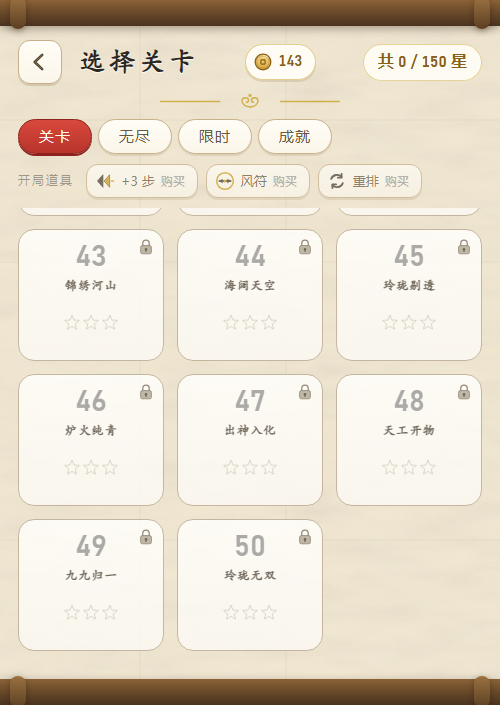
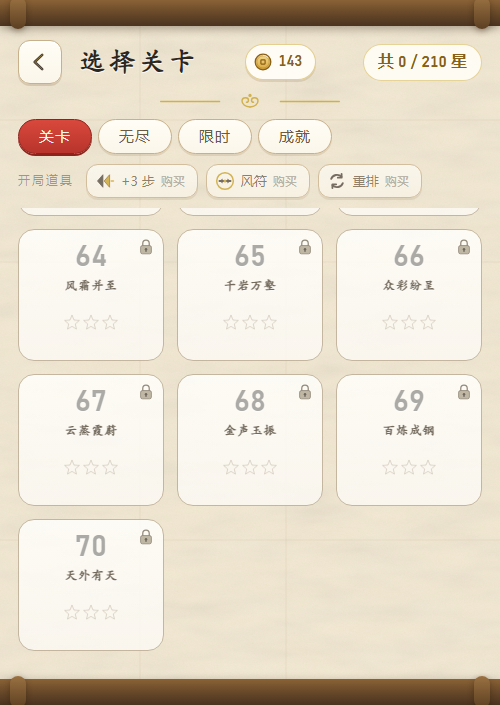
feat(levels): 50 关扩到 70 关（第七章「缠斗」+ 第八章「无双」）
按上一批的节奏继续加两章 20 关，新增 4 张盘面：藤柱 / 霜簇 / 双垒 / 石十字 / 藤石相间。
数值照旧走「模拟 → 回填工具建议的星级 → 复验」，最终 51-70 关胜率落在 44%~84%，
全部 70 关通过健康检查（只有原有的教学关 1-4、14 是 100%）。

顺带把「加关卡就要重排成就」这个维护痛点根治了：
- 星级成就的门槛改成按**满星上限的比例**算（四分位 / 半数 / 四分之三 / 满星），
  画卷五层同理（10% / 28% / 52% / 78% / 100%）。门槛跟着关卡数自动缩放。
- 成就 id 从 stars20/stars50/stars90/stars120 改成 starsQuarter/starsHalf/starsMost/starsAll
  ——不含数字，以后再加关卡不用再重命名 id、图标文件、i18n 键（这次一次性改完）。
- 描述里的数字由 Achievements.needOf 注入（{n}），文案只有一份。
- 新增 12e/12f 两条自检守着这套约定：满星上限 = 关卡数×3、画卷门槛递增且末层=满星、
  星级成就门槛递增且末档=满星、「通关全部」门槛=关卡数，
  以及「描述里带 {n} 的成就必须给得出数字」（否则界面会显示成 0）。

另一个反复出现的经验这次也验证了：**成簇摆放的障碍好打得多**。
石十字（12 个石锁连成一片）第一次给 32 步时胜率 92%，收到 22 步才回到 83%；
而同样数量的石锁摊在四角会直接掉到 29%。摆布局时按「打击次数 × 是否成簇」估难度。

自检 192 项 · 浏览器 24 项 × 三种尺寸全绿 · 技能回归平均 70.2% → 75.5%。

diff --git a/js/levels.js b/js/levels.js
@@ -169,6 +169,62 @@
       '....#...',
       '....##..'
     ],
+    /* ---- 第七、八章新增 ---- */
+    /* 霜簇：四片霜排成两个 2×2，成簇摆法对高阶关同样适用 */
+    frostCluster: [
+      '........',
+      '..**....',
+      '..**....',
+      '........',
+      '........',
+      '....**..',
+      '....**..',
+      '........'
+    ],
+    /* 藤柱：三对竖藤把盘面切成四段，重力分段最碎的一张图 */
+    vineColumns: [
+      '..v..v..',
+      '..v..v..',
+      '..v..v..',
+      '........',
+      '........',
+      '..v..v..',
+      '..v..v..',
+      '..v..v..'
+    ],
+    /* 双垒：两座 2×2 石垒上下错开，比四角摊开好打得多 */
+    twinBlocks: [
+      '........',
+      '..##....',
+      '..##....',
+      '........',
+      '........',
+      '....##..',
+      '....##..',
+      '........'
+    ],
+    /* 石十字：12 个石锁连成一片十字，一次三连能同时啃掉好几块——量大但好打 */
+    crossStone: [
+      '........',
+      '........',
+      '...##...',
+      '..####..',
+      '..####..',
+      '...##...',
+      '........',
+      '........'
+    ],
+    /* 藤石相间：两座石垒配两条竖藤 */
+    stoneVineMix: [
+      '..v.....',
+      '..##....',
+      '..##....',
+      '..v.....',
+      '....v...',
+      '....##..',
+      '....##..',
+      '....v...'
+    ],
     /* 铁壁：两座 2×2 石垒斜对角摆开（收官关用）。
      * 摆布局时按「打击次数」估难度（石锁 2 次、霜 1 次），而且**成簇比摊开好打**——
      * 一次三连能同时啃掉挤在一起的好几个。第一版把 4 个石锁摊在四个角，
@@ -257,7 +313,31 @@
     { id: 47, name: '出神入化', nameEn: 'Transcendent',  colors: 6, moves: 28, objectives: [{ type: 'score', target: 5000 }, { type: 'collect', color: 5, count: 20 }, { type: 'clear' }], stars: [5320, 5600, 6400], layout: LAYOUTS.frostVine },
     { id: 48, name: '天工开物', nameEn: 'Craft of Heaven', colors: 6, moves: 25, objectives: [{ type: 'collect', color: 0, count: 20 }, { type: 'collect', color: 3, count: 20 }, { type: 'collect', color: 5, count: 20 }], stars: [3930, 4400, 4900], layout: LAYOUTS.mixedA },
     { id: 49, name: '九九归一', nameEn: 'All Returns One', colors: 6, moves: 28, objectives: [{ type: 'score', target: 5200 }, { type: 'clear' }], stars: [5490, 5900, 6500], layout: LAYOUTS.finale },
-    { id: 50, name: '玲珑无双', nameEn: 'Unrivalled',    colors: 6, moves: 32, objectives: [{ type: 'score', target: 4200 }, { type: 'collect', color: 2, count: 22 }, { type: 'clear' }], stars: [4755, 5300, 6700], layout: LAYOUTS.bastion }
+    { id: 50, name: '玲珑无双', nameEn: 'Unrivalled',    colors: 6, moves: 32, objectives: [{ type: 'score', target: 4200 }, { type: 'collect', color: 2, count: 22 }, { type: 'clear' }], stars: [4755, 5300, 6700], layout: LAYOUTS.bastion },
+
+    /* ---- 第七章 · 缠斗（障碍加量，成簇摆法；两个目标同时施压） ---- */
+    { id: 51, name: '双峰对峙', nameEn: 'Twin Peaks',    colors: 6, moves: 25, objectives: [{ type: 'score', target: 5000 }, { type: 'clear' }], stars: [5240, 5500, 6100], layout: LAYOUTS.frostCluster },
+    { id: 52, name: '藤罗深锁', nameEn: 'Vine Lock',     colors: 6, moves: 27, objectives: [{ type: 'clear' }], stars: [4095, 5100, 6000], layout: LAYOUTS.vineColumns },
+    { id: 53, name: '石径通幽', nameEn: 'Stone Path',    colors: 6, moves: 28, objectives: [{ type: 'collect', color: 0, count: 24 }, { type: 'clear' }], stars: [4085, 5100, 6000], layout: LAYOUTS.stoneVineMix },
+    { id: 54, name: '霜石交辉', nameEn: 'Frost and Stone', colors: 6, moves: 28, objectives: [{ type: 'score', target: 4800 }, { type: 'clear' }], stars: [5150, 5400, 5800], layout: LAYOUTS.twinBlocks },
+    { id: 55, name: '三英聚首', nameEn: 'Threefold',     colors: 6, moves: 24, objectives: [{ type: 'collect', color: 1, count: 22 }, { type: 'collect', color: 3, count: 22 }, { type: 'collect', color: 5, count: 22 }], stars: [4005, 4800, 5700], layout: LAYOUTS.frostCross },
+    { id: 56, name: '曲径回廊', nameEn: 'Winding Corridor', colors: 6, moves: 29, objectives: [{ type: 'score', target: 4800 }, { type: 'clear' }], stars: [5330, 5900, 7000], layout: LAYOUTS.vineColumns },
+    { id: 57, name: '双辉并耀', nameEn: 'Twin Radiance', colors: 6, moves: 26, objectives: [{ type: 'collect', color: 2, count: 26 }, { type: 'collect', color: 4, count: 26 }], stars: [4165, 5000, 5900], layout: LAYOUTS.frostCluster },
+    { id: 58, name: '石上流泉', nameEn: 'Spring on Stone', colors: 6, moves: 29, objectives: [{ type: 'score', target: 5000 }, { type: 'collect', color: 4, count: 22 }, { type: 'clear' }], stars: [5445, 5800, 6200], layout: LAYOUTS.stoneVineMix },
+    { id: 59, name: '层见叠出', nameEn: 'Layer on Layer', colors: 6, moves: 22, objectives: [{ type: 'clear' }], stars: [2840, 3600, 4500], layout: LAYOUTS.crossStone },
+    { id: 60, name: '万象森罗', nameEn: 'Myriad Forms',  colors: 6, moves: 28, objectives: [{ type: 'score', target: 5000 }, { type: 'collect', color: 3, count: 20 }, { type: 'collect', color: 0, count: 20 }], stars: [5210, 5600, 6000], layout: LAYOUTS.vineRing },
+
+    /* ---- 第八章 · 无双（三目标成为常态，盘面与步数都到顶） ---- */
+    { id: 61, name: '铁壁重围', nameEn: 'Iron Siege',    colors: 6, moves: 23, objectives: [{ type: 'clear' }], stars: [3185, 4000, 4800], layout: LAYOUTS.crossStone },
+    { id: 62, name: '藤网密织', nameEn: 'Vine Web',      colors: 6, moves: 30, objectives: [{ type: 'collect', color: 1, count: 22 }, { type: 'clear' }], stars: [4460, 5300, 6800], layout: LAYOUTS.vineColumns },
+    { id: 63, name: '玉润珠圆', nameEn: 'Polished Jade', colors: 6, moves: 29, objectives: [{ type: 'score', target: 5400 }, { type: 'collect', color: 0, count: 20 }, { type: 'clear' }], stars: [5680, 6000, 6200], layout: LAYOUTS.frostCluster },
+    { id: 64, name: '风霜并至', nameEn: 'Wind and Frost', colors: 6, moves: 30, objectives: [{ type: 'collect', color: 2, count: 24 }, { type: 'collect', color: 4, count: 24 }, { type: 'clear' }], stars: [4245, 5200, 6400], layout: LAYOUTS.twinBlocks },
+    { id: 65, name: '千岩万壑', nameEn: 'A Thousand Cliffs', colors: 6, moves: 25, objectives: [{ type: 'score', target: 5000 }, { type: 'clear' }], stars: [5310, 5500, 6100], layout: LAYOUTS.crossStone },
+    { id: 66, name: '众彩纷呈', nameEn: 'Many Hues',     colors: 6, moves: 28, objectives: [{ type: 'collect', color: 1, count: 26 }, { type: 'collect', color: 3, count: 26 }, { type: 'collect', color: 5, count: 26 }], stars: [5140, 5700, 6300], layout: LAYOUTS.vineLattice },
+    { id: 67, name: '云蒸霞蔚', nameEn: 'Rising Clouds', colors: 6, moves: 32, objectives: [{ type: 'score', target: 5200 }, { type: 'collect', color: 5, count: 22 }, { type: 'clear' }], stars: [5565, 5900, 6400], layout: LAYOUTS.stoneVineMix },
+    { id: 68, name: '金声玉振', nameEn: 'Golden Tone',   colors: 6, moves: 28, objectives: [{ type: 'collect', color: 2, count: 30 }, { type: 'clear' }], stars: [4670, 5400, 6900], layout: LAYOUTS.twinBlocks },
+    { id: 69, name: '百炼成钢', nameEn: 'Forged',        colors: 6, moves: 24, objectives: [{ type: 'collect', color: 0, count: 20 }, { type: 'clear' }], stars: [3810, 4500, 5300], layout: LAYOUTS.crossStone },
+    { id: 70, name: '天外有天', nameEn: 'Beyond the Heavens', colors: 6, moves: 30, objectives: [{ type: 'score', target: 5400 }, { type: 'collect', color: 2, count: 26 }, { type: 'clear' }], stars: [5705, 6100, 6600], layout: LAYOUTS.crossStone }
   ];
 
   /* 清障关的障碍总数 */

diff --git a/js/achievements.js b/js/achievements.js
@@ -9,22 +9,30 @@
   const LL = (global.LL = global.LL || {});
   const CFG = LL.CFG;
 
-  /* 画卷层与星数门槛。
-   * 上限跟着关卡数走：50 关 × 3 星 = 150 星，所以门槛整体上移——
-   * 原本按 30 关（90 星）配的 [10,25,45,65,90] 在 50 关下会早早全开，沉淀感就没了。 */
-  const SCROLL_TIERS = [15, 40, 75, 115, 150];
+  /* 星级门槛按「满星上限的比例」定义，不写死数字。
+   * 关卡从 30 → 50 → 70 一路加过来，写死的门槛每加一次都要重排一遍，
+   * 连成就 id 和图标文件名都得跟着改（stars20 → stars50 → …），纯属自找麻烦。
+   * 换成比例后，加关卡只需要确认新门槛是否还合理，id / 图标 / 文案键都不用动。
+   * 描述里的数字用 {n} 传进去（见 needOf），所以文案也只有一份。 */
+  const LEVEL_COUNT = (LL.LEVELS || []).length;
+  const MAX_STARS = LEVEL_COUNT * 3;
+  const starPct = function (f) { return Math.round(MAX_STARS * f / 5) * 5; };
+  const STAR_TIERS = [
+    { id: 'starsQuarter', icon: 'ach_starsQuarter', coins: 50, at: starPct(0.25) },
+    { id: 'starsHalf', icon: 'ach_starsHalf', coins: 90, at: starPct(0.5) },
+    { id: 'starsMost', icon: 'ach_starsMost', coins: 140, at: starPct(0.75) },
+    { id: 'starsAll', icon: 'ach_starsAll', coins: 200, at: MAX_STARS }
+  ];
+
+  /* 画卷层同理：按上限的百分比取，最后一层留给「满星」 */
+  const SCROLL_TIERS = [starPct(0.10), starPct(0.28), starPct(0.52), starPct(0.78), MAX_STARS];
 
   /* 徽记图形与成就一一对应（icon 键必须登记在 js/assets.js 的 IMAGES 里，
    * 少了就会被 tools/selftest.cjs 第 10 节的素材完整性检查拦下）。
-   * 设计意图：未解锁时列表会降饱和到 50% 透明，所以每枚徽记靠轮廓区分，不靠颜色。
-   * 星级门槛同样按 150 星上限重新分布：20 / 50 / 90 / 120 四档 + 满星。 */
+   * 设计意图：未解锁时列表会降饱和到 50% 透明，所以每枚徽记靠轮廓区分，不靠颜色。 */
   const LIST = [
-    { id: 'firstStar', icon: 'ach_firstStar', coins: 30, check: function (c) { return c.stars >= 1; } },
-    { id: 'stars20', icon: 'ach_stars20', coins: 50, check: function (c) { return c.stars >= 20; } },
-    { id: 'stars50', icon: 'ach_stars50', coins: 90, check: function (c) { return c.stars >= 50; } },
-    { id: 'stars90', icon: 'ach_stars90', coins: 140, check: function (c) { return c.stars >= 90; } },
-    { id: 'stars120', icon: 'ach_stars120', coins: 200, check: function (c) { return c.stars >= 120; } },
-    { id: 'allClear', icon: 'ach_allClear', coins: 260, check: function (c) { return c.clearedLevels >= c.levelCount; } },
+    { id: 'firstStar', icon: 'ach_firstStar', coins: 30, need: 1, check: function (c) { return c.stars >= 1; } },
+    { id: 'allClear', icon: 'ach_allClear', coins: 260, need: LEVEL_COUNT, check: function (c) { return c.clearedLevels >= c.levelCount; } },
     { id: 'cascade8', icon: 'ach_cascade8', coins: 60, check: function (c) { return c.stats.maxCascade >= 8; } },
     { id: 'specials100', icon: 'ach_specials100', coins: 60, check: function (c) { return c.stats.specialsFired >= 100; } },
     { id: 'obst200', icon: 'ach_obst200', coins: 60, check: function (c) { return c.stats.obstaclesBroken >= 200; } },
@@ -33,6 +41,17 @@
     { id: 'endless10', icon: 'ach_endless10', coins: 100, check: function (c) { return c.endlessBest >= 10; } },
     { id: 'timed8k', icon: 'ach_timed8k', coins: 100, check: function (c) { return c.timedBest >= 8000; } }
   ];
+
+  /* 星级成就插在「第一颗星」与「通关全部」之间，顺序上读起来是递进的 */
+  STAR_TIERS.forEach(function (t, i) {
+    LIST.splice(1 + i, 0, {
+      id: t.id, icon: t.icon, coins: t.coins, need: t.at,
+      check: function (c) { return c.stars >= t.at; }
+    });
+  });
+
+  /* 成就描述里要填的数字（星级门槛 / 通关关卡数） */
+  function needOf(a) { return a && a.need != null ? a.need : 0; }
 
   /* 汇总判定上下文 */
   function context(data) {
@@ -89,9 +108,12 @@
   LL.Achievements = {
     LIST: LIST,
     SCROLL_TIERS: SCROLL_TIERS,
+    MAX_STARS: MAX_STARS,
+    LEVEL_COUNT: LEVEL_COUNT,
     context: context,
     newlyUnlocked: newlyUnlocked,
     scrollTier: scrollTier,
-    nextScrollGoal: nextScrollGoal
+    nextScrollGoal: nextScrollGoal,
+    needOf: needOf
   };
 })(typeof globalThis !== 'undefined' ? globalThis : this);

diff --git a/lang/zh.js b/lang/zh.js
@@ -80,16 +80,16 @@
     achGot: '已达成',
     ach_firstStar: '初出茅庐',
     ach_firstStar_d: '获得第一颗星',
-    ach_stars20: '小有所成',
-    ach_stars20_d: '累计获得 20 颗星',
-    ach_stars50: '渐入佳境',
-    ach_stars50_d: '累计获得 50 颗星',
-    ach_stars90: '玲珑满堂',
-    ach_stars90_d: '累计获得 90 颗星',
-    ach_stars120: '三星照胆',
-    ach_stars120_d: '累计获得 120 颗星',
+    ach_starsQuarter: '小有所成',
+    ach_starsQuarter_d: '累计获得 {n} 颗星',
+    ach_starsHalf: '渐入佳境',
+    ach_starsHalf_d: '累计获得 {n} 颗星',
+    ach_starsMost: '玲珑满堂',
+    ach_starsMost_d: '累计获得 {n} 颗星',
+    ach_starsAll: '三星照胆',
+    ach_starsAll_d: '累计获得 {n} 颗星（全部满星）',
     ach_allClear: '玲珑无双',
-    ach_allClear_d: '通关全部 50 关',
+    ach_allClear_d: '通关全部 {n} 关',
     ach_cascade8: '连锁狂人',
     ach_cascade8_d: '单局打出一次 8 连锁',
     ach_specials100: '风起云涌',

diff --git a/lang/en.js b/lang/en.js
@@ -73,16 +73,16 @@
     achGot: 'Unlocked',
     ach_firstStar: 'First Light',
     ach_firstStar_d: 'Earn your first star',
-    ach_stars20: 'Getting There',
-    ach_stars20_d: 'Earn 20 stars in total',
-    ach_stars50: 'In the Groove',
-    ach_stars50_d: 'Earn 50 stars in total',
-    ach_stars90: 'Hall of Jade',
-    ach_stars90_d: 'Earn 90 stars in total',
-    ach_stars120: 'Star Gatherer',
-    ach_stars120_d: 'Earn 120 stars in total',
+    ach_starsQuarter: 'Getting There',
+    ach_starsQuarter_d: 'Earn {n} stars in total',
+    ach_starsHalf: 'In the Groove',
+    ach_starsHalf_d: 'Earn {n} stars in total',
+    ach_starsMost: 'Hall of Jade',
+    ach_starsMost_d: 'Earn {n} stars in total',
+    ach_starsAll: 'Star Gatherer',
+    ach_starsAll_d: 'Earn all {n} stars',
     ach_allClear: 'Unrivalled',
-    ach_allClear_d: 'Clear all 50 levels',
+    ach_allClear_d: 'Clear all {n} levels',
     ach_cascade8: 'Chain Master',
     ach_cascade8_d: 'Reach an ×8 cascade in one run',
     ach_specials100: 'Rising Wind',

diff --git a/js/ui.js b/js/ui.js
@@ -386,10 +386,12 @@
       A.LIST.forEach(function (a) {
         const on = !!P.achievementOf(a.id);
         const row = U.el('div', 'ach-row' + (on ? ' on' : ''));
+        /* 描述里的数字由 needOf 给（星级门槛 / 通关关卡数），
+         * 这样门槛跟着关卡数走，文案只有一份 */
         row.innerHTML =
           '<img class="ach-icon" src="' + LL.Assets.path(a.icon || 'ui_medal') + '" alt="">' +
           '<div class="ach-body"><div class="ach-name">' + I18N.t('ach_' + a.id) + '</div>' +
-          '<div class="ach-desc">' + I18N.t('ach_' + a.id + '_d') + '</div></div>' +
+          '<div class="ach-desc">' + I18N.t('ach_' + a.id + '_d', { n: A.needOf(a) }) + '</div></div>' +
           '<div class="ach-coin">' + (on ? I18N.t('achGot') : '+' + a.coins) + '</div>';
         list.appendChild(row);
       });

diff --git a/js/assets.js b/js/assets.js
@@ -52,10 +52,10 @@
     scroll_l5: 'scroll_l5.svg',
     /* 成就徽记：键名 = 'ach_' + Achievements.LIST 里的 id（由自检第 10 节守门） */
     ach_firstStar: 'ach_firstStar.svg',
-    ach_stars20: 'ach_stars20.svg',
-    ach_stars50: 'ach_stars50.svg',
-    ach_stars90: 'ach_stars90.svg',
-    ach_stars120: 'ach_stars120.svg',
+    ach_starsQuarter: 'ach_starsQuarter.svg',
+    ach_starsHalf: 'ach_starsHalf.svg',
+    ach_starsMost: 'ach_starsMost.svg',
+    ach_starsAll: 'ach_starsAll.svg',
     ach_allClear: 'ach_allClear.svg',
     ach_cascade8: 'ach_cascade8.svg',
     ach_specials100: 'ach_specials100.svg',

diff --git a/README.md b/README.md
@@ -2,7 +2,7 @@
 
 [![engine](https://img.shields.io/badge/engine-Canvas_2D_+_Vanilla_JS-green)](#-技术实现)
 [![deps](https://img.shields.io/badge/dependencies-zero-blue)](#-技术实现)
-[![levels](https://img.shields.io/badge/levels-50-orange)](#-关卡设计)
+[![levels](https://img.shields.io/badge/levels-70-orange)](#-关卡设计)
 [![i18n](https://img.shields.io/badge/i18n-中文_/_English-orange)](./lang)
 [![license](https://img.shields.io/badge/license-MIT-lightgrey)](#-license)
 
@@ -57,10 +57,10 @@
 
 - **三种障碍**：**霜**（消除其上的块即破）· **石锁**（需消除两次，第一次会留下裂纹）·
   **藤蔓**（锁住的块不能交换，重力会在藤蔓处分段——上方的块不会穿过它）。
-- **50 关六章递进**：得分 → 收集 → 清障 → 混合 → 双目标 → 收官；步数与目标由模拟器反复验证，
-  前四关几乎不会失败，最后两章需要认真规划特殊块与技能时机。
-  第五章起每关两个目标，逼你在「清障」和「收集」之间分配步数；第六章压到三目标并换上新盘面
-  （藤格 / 石带 / 藤墙 / 霜藤交错 / 银钩 / 铁壁）。
+- **70 关八章递进**：得分 → 收集 → 清障 → 混合 → 双目标 → 收官 → 缠斗 → 无双；
+  步数与目标由模拟器反复验证，前四关几乎不会失败，后面几章需要认真规划特殊块与技能时机。
+  第五章起每关两个目标，逼你在「清障」和「收集」之间分配步数；第六、八章压到三目标；
+  第七、八章换上更密的盘面（藤柱 / 霜簇 / 双垒 / 石十字 / 藤石相间）。
 - **局内技能（灵力）**：卡住的时候你能出手，而不是只能眼看盘面烂掉。见下一节。
 - **死局自动洗牌**：当棋盘再无可行交换时自动重排（藤蔓块留在原位），保证不会卡死。
 - **空闲提示**：5 秒无操作会轻轻晃动一步可行走法。
@@ -127,7 +127,7 @@
   所以「认真规划拿三星」的追求还在。偏难的 7 关（19/23/25/27/28/29/30）额外多送 15 点开局灵力
   （`levels.js` 的 `BOOST_QI`）——只加「新系统给多少」，不动 moves / objectives / stars
   这些已校准的难度参数，所以既有的关卡数值验证依然成立。
-- **上界**：`node tools/balance.cjs --skills=max` 假设玩家把灵力全砸在移山上，此时全 50 关胜率会被推到
+- **上界**：`node tools/balance.cjs --skills=max` 假设玩家把灵力全砸在移山上，此时全 70 关胜率会被推到
   ~100%，但三星率明显下降（通关分被提前结束）。也就是说灵力买得到通关、买不到三星，
   要调强度就改 `CFG.QI` 与关卡上的 `skills: { qiStart, qiScale }` 覆写。
 
@@ -163,7 +163,9 @@
 - **限时挑战**：60 秒内尽可能多得分，不计步数；**连锁动画不吞时间**，按分数给三档金币。
   两种模式都只跟自己的历史比（最佳盘数 / 本周最佳 / 最高分）——没有后端，也不编造真人排行榜。
 - **成就与画卷**：13 个成就（星级 / 连锁 / 引爆 / 破障 / 每日 / 连签 / 两种模式纪录）达成即自动发金币；
-  累计星数还会逐层点亮一幅五层水墨画卷（15 / 40 / 75 / 115 / 150 星）。
+  累计星数还会逐层点亮一幅五层水墨画卷（门槛按满星上限的比例给：10% / 28% / 52% / 78% / 100%）。
+  成就里的星级门槛与「通关全部关卡」同样跟着关卡数走（描述里的数字由 `Achievements.needOf` 注入），
+  所以再加关卡时不用改 id、图标或文案键。
 
 ## 🎮 快速开始
 
@@ -224,7 +226,7 @@ linglong-match/
 │   │                                  # 纯逻辑：棋盘 / 特殊块 / 回合状态机 / 局内技能与灵力
 │   │                                  # skilldemo 是技能说明里的演示动画（自己的 rAF，暂停时也能跑）
 │   ├── levels.js daily.js quests.js modes.js achievements.js
-│   │                                  # 50 关数据 / 每日挑战 / 每日任务 / 无尽·限时 / 成就·画卷
+│   │                                  # 70 关数据 / 每日挑战 / 每日任务 / 无尽·限时 / 成就·画卷
 │   ├── progress.js                    # 存档：星级 / 金币 / 签到 / 任务 / 各模式纪录 / 统计
 │   ├── anim.js render.js              # 时间轴与特效 / Canvas 绘制
 │   ├── input.js hud.js ui.js game.js  # 输入 / HUD / 界面流转 / 关卡会话
@@ -240,10 +242,10 @@ linglong-match/
 ## 🧪 开发者工具
 
 ```bash
-node tools/selftest.cjs --turns=20000   # 逻辑自检：185 项断言 + 两万回合随机模拟
+node tools/selftest.cjs --turns=20000   # 逻辑自检：192 项断言 + 两万回合随机模拟
 node tools/balance.cjs --runs=200       # 关卡平衡：贪心玩家模拟，输出胜率与星级建议
 node tools/balance.cjs --level=20       # 只跑第 20 关
-node tools/balance.cjs --from=31 --to=50 # 只跑一批（标定新关卡时用，不必每次跑完 50 关）
+node tools/balance.cjs --from=51 --to=70 # 只跑一批（标定新关卡时用，不必每次跑完 70 关）
 node tools/balance.cjs --daily --days=21 # 每日挑战抽查：连看三周的胜率分布，防止出现「靠运气」的日子
 node tools/balance.cjs --skills --weaken=35 # 局内技能回归：同一个种子跑两遍（关技能 / 开技能），
                                         # --weaken=35 模拟「35% 走法乱下」的玩家，回答「技能能不能救回卡关的人」
@@ -261,7 +263,7 @@ python tools/gen_sfx.py                 # 重新合成全部 WAV 音效
 - **自检覆盖**：棋盘生成不变量（无初始三连、必有可行走法）· 随机回合模拟（棋盘永远填满、
   回合结束后无残留三连、特殊块与障碍数据合法）· 特殊块生成规则（4 连 / L·T / 5 连）·
   组合效果范围（十字、5×5、三行三列、同色全消、全屏）· 障碍分层与藤蔓重力分段 ·
-  死局洗牌必定产出可玩棋盘 · 50 关数据合法性（含「收集目标颜色必须在该关色池内」这类容易写错的检查）·
+  死局洗牌必定产出可玩棋盘 · 70 关数据合法性（含「收集目标颜色必须在该关色池内」这类容易写错的检查）·
   局内技能（四个技能的计划与落点、灵力收支与溢出、背水一战倍率、绝处逢生门槛与次数、
   技能资产与中英文案齐全、**技能回合带出连锁不崩**）·
   **素材完整性**（源码里写死的键 / 配表声明的图标 / 磁盘文件，三方对账，并反向查「生成了却没人用的孤儿图」）·
@@ -270,9 +272,9 @@ python tools/gen_sfx.py                 # 重新合成全部 WAV 音效
   `data-i18n` 属性，三类来源都对着中英词典核一遍，并检查中英键数一致——
   缺键不会报错，只会静静地把键名本身显示给玩家）。
 - **平衡验证**：用一个会优先照顾目标、破障与特殊块的贪心玩家跑满每关若干局，
-  输出胜率、平均剩余步数与得分分位数，并给出二星 / 三星阈值建议。当前 50 关的胜率曲线为：
+  输出胜率、平均剩余步数与得分分位数，并给出二星 / 三星阈值建议。当前 70 关的胜率曲线为：
   第一章 ~100%（教学）→ 第二章 71–100% → 第三章 49–99% → 第四章 33–77% →
-  第五章 48–83% → 第六章 46–79%。
+  第五~六章 46–83% → 第七~八章 44–84%。
   加了 `--skills` 之后，同一个种子会跑两遍做对照，逐关给出「技能前后」的胜率与三星率变化。
 - **浏览器冒烟**：内置 http 服务 + Chrome DevTools Protocol（Node 22+ 自带 WebSocket，
   不引入 puppeteer）。它会把每个界面上的按钮都点一遍收集报错，做图片体检，
@@ -354,6 +356,8 @@ python tools/gen_sfx.py                 # 重新合成全部 WAV 音效
 | 四 · 混合 | 23–30 | 6 色多目标 | 6 色、双目标、步数收紧 |
 | 五 · 双目标 | 31–40 | 步数分配 | 每关两个目标，清障与收集互相抢步数；引入藤格 / 石带 / 藤墙 / 霜藤交错 |
 | 六 · 收官 | 41–50 | 三目标与极限盘面 | 三目标登场，银钩 / 铁壁两张新盘面，步数放宽到 30+ 但目标更硬 |
+| 七 · 缠斗 | 51–60 | 障碍加量 | 藤柱 / 霜簇 / 双垒 / 藤石相间，两个目标同时施压 |
+| 八 · 无双 | 61–70 | 三目标成为常态 | 石十字等密盘面，终关「天外有天」为分数 + 收集 + 清障 |
 
 每关的 `moves`、目标值与二 / 三星分数阈值都经过 `tools/balance.cjs` 模拟验证。
 标定新关卡时用 `--from/--to` 只跑一批，把工具给出的「建议二星/三星」回填即可。
